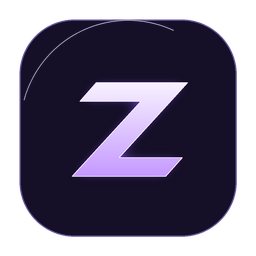
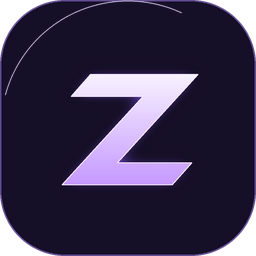
Brand as Zephyr and repair Fabric and account workflows

diff --git a/src/main.tsx b/src/main.tsx
@@ -4,7 +4,7 @@ import { createRoot } from 'react-dom/client';
 import type { Preset } from './profiles';
 const Resources = lazy(() => import('./resources').then(module => ({ default: module.Resources })));
 const Profiles = lazy(() => import('./profiles').then(module => ({ default: module.Profiles })));
-type Page = 'home' | 'instances' | 'performance' | 'mods';
+type Page = 'home' | 'instances' | 'performance' | 'mods' | 'account';
 const navigation = [
   ['home', '首页', 'M3 10l9-7 9 7v10H4V10m5 10v-7h6v7'],
   ['instances', '实例', 'M12 3l9 5v8l-9 5-9-5V8l9-5zm-9 5l9 5 9-5m-9 5v8'],
@@ -12,11 +12,13 @@ const navigation = [
   ['mods', '模组', 'M5 4h14v16H5zM8 8h8M8 12h8m-8 4h4'],
 ] as const;
 import './style.css';
+import { readableError } from './errors';
 
 type Loader = 'vanilla' | 'fabric';
 type Resource = { id: string; title: string; description: string };
 type InstallFile = { title: string; version: string };
 type Instance = { loader?: Loader; id: string; name: string; version: string; installed: boolean };
+type Player = { name: string; skin?: string; offline: boolean };
 type Version = { id: string; type: string };
 type Progress = { completed: number; total: number; bytesPerSecond: number };
 declare global {
@@ -36,7 +38,9 @@ declare global {
       previewMod(id: string, project: string): Promise<{ token: string; files: InstallFile[] }>;
       installMod(id: string, token: string): Promise<InstallFile[]>;
       install(id: string): Promise<Instance[]>;
-      signIn(): Promise<{ name: string; skin?: string }>;
+      accountSettings(): Promise<{ clientId: string; offlineAvailable: boolean }>;
+      signIn(clientId: string): Promise<Player & { offlineAvailable: boolean }>;
+      signInOffline(): Promise<Player>;
       signOut(): Promise<void>;
       play(id: string): Promise<void>;
       onGameExit(callback: (code: number | null) => void): () => void;
@@ -57,24 +61,27 @@ function App() {
   const [loader, setLoader] = useState<Loader>('vanilla');
   const [version, setVersion] = useState('');
   const [allVersions, setAllVersions] = useState(false);
+  const [loadingVersions, setLoadingVersions] = useState(false);
+  const [clientId, setClientId] = useState('');
+  const [offlineAvailable, setOfflineAvailable] = useState(false);
   const [busy, setBusy] = useState('');
   const [error, setError] = useState('');
-  const [player, setPlayer] = useState<{ name: string; skin?: string }>();
+  const [player, setPlayer] = useState<Player>();
   const [playing, setPlaying] = useState(false);
   const [progress, setProgress] = useState<Progress>();
   const current = instances.find(instance => instance.id === selected) ?? instances[0];
 
   async function loadVersions() {
-    setBusy('正在读取官方版本目录');
+    setLoadingVersions(true);
     setError('');
     try {
       const entries = await window.launcher.versions();
       setVersions(entries);
       setVersion(entries.find(entry => entry.type === 'release')?.id ?? '');
     } catch (error) {
-      setError(String(error));
+      setError(readableError(error));
     } finally {
-      setBusy('');
+      setLoadingVersions(false);
     }
   }
 
@@ -84,8 +91,12 @@ function App() {
   }, [theme]);
 
   useEffect(() => {
+    window.launcher.accountSettings().then(settings => {
+      setClientId(settings.clientId);
+      setOfflineAvailable(settings.offlineAvailable);
+    }).catch(error => setError(readableError(error)));
     window.launcher.system().then(setHardware).catch(() => {});
-    window.launcher.list().then(setInstances).catch(error => setError(String(error)));
+    window.launcher.list().then(setInstances).catch(error => setError(readableError(error)));
     void loadVersions();
     const stopProgress = window.launcher.onProgress(setProgress);
     const stopExit = window.launcher.onGameExit(code => {
@@ -106,7 +117,7 @@ function App() {
       setName('');
       setPage('home');
     } catch (error) {
-      setError(String(error));
+      setError(readableError(error));
     } finally {
       setBusy('');
     }
@@ -120,24 +131,31 @@ function App() {
     try {
       setInstances(await window.launcher.install(current.id));
     } catch (error) {
-      setError(String(error));
+      setError(readableError(error));
     } finally {
       setBusy('');
     }
   }
 
-  async function changeAccount() {
-    setBusy(player ? '正在退出登录' : '请在系统浏览器中完成 Microsoft 登录');
+  async function changeAccount(mode: 'online' | 'offline' | 'forget') {
+    setBusy(mode === 'online' ? '请在系统浏览器中完成 Microsoft 登录' : '正在切换账号');
     setError('');
     try {
-      if (player) {
+      if (mode === 'forget') {
         await window.launcher.signOut();
         setPlayer(undefined);
+        setOfflineAvailable(false);
+      } else if (mode === 'offline') {
+        setPlayer(await window.launcher.signInOffline());
+        setPage('home');
       } else {
-        setPlayer(await window.launcher.signIn());
+        const account = await window.launcher.signIn(clientId.trim());
+        setPlayer(account);
+        setOfflineAvailable(account.offlineAvailable);
+        setPage('home');
       }
     } catch (error) {
-      setError(String(error));
+      setError(readableError(error));
     } finally {
       setBusy('');
     }
@@ -152,7 +170,7 @@ function App() {
       await window.launcher.play(current.id);
     } catch (error) {
       setPlaying(false);
-      setError(String(error));
+      setError(readableError(error));
     } finally {
       setBusy('');
     }
@@ -163,7 +181,7 @@ function App() {
   const transfer = resourceBusy || busy === '正在安装游戏文件';
   return <div className="layout" data-reduced={hardware?.reducedEffects ?? false}>
     <aside>
-      <header><img src="./launcher-mark.png" alt="" /><strong>Java Edition<br /><small>启动器</small></strong></header>
+      <header><img src="./launcher-mark.png" alt="" /><strong>Zephyr<br /><small>Minecraft 启动器</small></strong></header>
       <nav aria-label="主导航">{navigation.map(([value, label, path]) =>
         <button type="button" key={value} aria-current={page === value ? 'page' : undefined}
           onClick={() => { setProgress(undefined); setPage(value); }} disabled={resourceBusy}>
@@ -181,15 +199,15 @@ function App() {
         <label className="theme">主题<select value={theme} onChange={event => setTheme(event.target.value)}>
           <option value="system">跟随系统</option><option value="light">浅色</option><option value="dark">深色</option>
         </select></label>
-        {player && <span className="player">{player.skin && <span className="avatar"><img src={player.skin} alt="" /></span>}{player.name}</span>}
-        <button type="button" disabled={locked} onClick={changeAccount}>
-          {player ? '退出账号' : 'Microsoft 登录'}
+        {player && <span className="player">{player.skin && <span className="avatar"><img src={player.skin} alt="" /></span>}{player.name}{player.offline && <small>离线</small>}</span>}
+        <button type="button" disabled={locked} onClick={() => setPage('account')}>
+          {player ? '账号设置' : '登录'}
         </button>
       </div>
       <div key={page} className="page">
       {page === 'home' && <section className="hero">
         <img className="hero-mark" src="./launcher-mark.png" alt="" />
-        <p className="eyebrow">JAVA EDITION</p>
+        <p className="eyebrow">MINECRAFT JAVA EDITION</p>
         <h1>{current?.name ?? '游戏实例'}</h1>
         <p>{current ? `${current.version} · ${current.installed ? '游戏文件已下载' : '待安装'}` :
           '从 Mojang 官方版本目录创建一个独立游戏实例。'}</p>
@@ -200,6 +218,20 @@ function App() {
         </button>}
         {!current && <button className="primary" onClick={() => setPage('instances')}>创建游戏实例</button>}
         {hardware && <p className="memory">推荐 JVM 内存 · {hardware.memory} GB</p>}
+      </section>}
+      {page === 'account' && <section className="panel">
+        <h2>账号</h2>
+        <p>第一次使用请通过 Microsoft 登录，完成 Minecraft Java 版所有权验证。之后可以用同一账号离线玩本地存档。</p>
+        <form className="sign-in-form" onSubmit={event => { event.preventDefault(); void changeAccount('online'); }}>
+          <label>Microsoft 应用程序客户端 ID<input value={clientId} required maxLength={36}
+            onChange={event => setClientId(event.target.value)} placeholder="应用程序（客户端）ID" /></label>
+          <button className="primary" disabled={locked || !clientId.trim()}>Microsoft 登录</button>
+        </form>
+        <div className="quick-actions">
+          {offlineAvailable && <button disabled={locked} onClick={() => void changeAccount('offline')}>离线登录</button>}
+          {(player || offlineAvailable) && <button disabled={locked} onClick={() => void changeAccount('forget')}>退出并清除本机账号</button>}
+        </div>
+        {!offlineAvailable && <p>在系统钥匙串可用时，成功登录后会启用离线模式。</p>}
       </section>}
       {page === 'instances' && <section className="panel">
         <h2>创建实例</h2>
@@ -222,7 +254,8 @@ function App() {
           }} />显示快照与历史版本</label>
           <button type="submit" disabled={!versions.length || !!busy || !name.trim()}>创建实例</button>
         </form>
-        {!versions.length && !busy && <button type="button" onClick={loadVersions}>重新读取官方目录</button>}
+        {loadingVersions && <p role="status">正在读取官方版本目录…</p>}
+        {!versions.length && !busy && !loadingVersions && <button type="button" onClick={loadVersions}>重新读取官方目录</button>}
       </section>}
       <Suspense fallback={<p role="status">正在加载页面…</p>}>
         {page === 'performance' && (supported ?

diff --git a/src/style.css b/src/style.css
@@ -102,3 +102,18 @@ progress { width: 100%; accent-color: var(--accent); }
   .layout { grid-template-columns: 152px minmax(0, 1fr); }
   form, .preset-list { grid-template-columns: 1fr; }
 }
+/* Keep the app mark fully visible inside the hero at narrow window sizes. */
+.layout::before {
+  background: radial-gradient(ellipse at 84% 12%,
+    color-mix(in srgb, var(--accent) 17%, transparent), transparent 57%);
+}
+header img { width: 40px; height: 40px; flex: none; }
+header strong { font-size: 17px; }
+header small { display: inline-block; margin-top: 4px; font-size: 10px; }
+.hero-mark { width: clamp(125px, 25vw, 290px); right: clamp(12px, 4vw, 50px); top: 50%;
+  bottom: auto; opacity: .25; transform: translateY(-50%); }
+@media (max-width: 850px) {
+  .hero-mark { width: clamp(100px, 19vw, 150px); opacity: .15; }
+}
+.sign-in-form { grid-template-columns: minmax(180px, 340px) auto; justify-content: start; }
+@media (max-width: 800px) { .sign-in-form { grid-template-columns: 1fr; } }

diff --git a/src/profiles.tsx b/src/profiles.tsx
@@ -1,3 +1,4 @@
+import { readableError } from './errors';
 import { useEffect, useState } from 'react';
 
 export const modes = {
@@ -22,7 +23,7 @@ export function Profiles({ id, disabled, notify }: { id: string; disabled: boole
   useEffect(() => {
     let active = true;
     window.launcher.profile(id).then(value => { if (active) setCurrent(value); },
-      reason => { if (active) setError(String(reason)); });
+      reason => { if (active) setError(readableError(reason)); });
     return () => { active = false; };
   }, [id]);
   async function perform(action: () => Promise<void>, message: string) {
@@ -32,7 +33,7 @@ export function Profiles({ id, disabled, notify }: { id: string; disabled: boole
     setSaved('');
     setStatus(message);
     try { await action(); }
-    catch (error) { setError(String(error)); }
+    catch (error) { setError(readableError(error)); }
     finally { setWorking(false); setStatus(''); notify(false); }
   }
   return <section className="panel">

diff --git a/src/resources.tsx b/src/resources.tsx
@@ -1,3 +1,4 @@
+import { readableError } from './errors';
 import { useState } from 'react';
 import type { FormEvent } from 'react';
 
@@ -20,7 +21,7 @@ export function Resources({ instance, disabled, notify }: { instance: string; di
     try {
       await action();
     } catch (error) {
-      setError(String(error));
+      setError(readableError(error));
     } finally {
       setWorking(false);
       notify(false);

diff --git a/index.html b/index.html
@@ -4,7 +4,7 @@
   <meta charset="UTF-8" />
   <meta name="viewport" content="width=device-width, initial-scale=1" />
   <meta http-equiv="Content-Security-Policy" content="default-src 'self'; img-src 'self' https://textures.minecraft.net; object-src 'none'; base-uri 'none'" />
-  <title>Minecraft 启动器</title>
+  <title>Zephyr</title>
 </head>
 <body>
   <div id="root"></div>

diff --git a/src/errors.ts b/src/errors.ts
@@ -1,0 +1,6 @@
+export function readableError(error: unknown) {
+  const message = error instanceof Error ? error.message : String(error);
+  return message.replace(/^Error:\s*/, '')
+    .replace(/^Error invoking remote method '[^']+':\s*/, '')
+    .replace(/^Error:\s*/, '');
+}

diff --git a/README.md b/README.md
@@ -1,4 +1,4 @@
-# Java Edition Launcher
+# Zephyr
 
 Minecraft Java 版桌面启动器的开发版源码。现有功能包括独立实例、Mojang 版本目录、游戏文件下载与校验、Microsoft 浏览器登录、正版所有权校验和现代原版的 Java 进程启动。当前处于开发阶段，真实账号到游戏内的完整流程尚未验收。
 
@@ -60,3 +60,9 @@ npm start
 - 下载支持校验缓存和基于 Range 的恢复。服务器不支持 Range 时重新下载该文件。进度显示为已处理的文件数和任务平均吞吐。
 - 新版发布由版本标签触发，目标为 macOS ARM64 DMG、Windows x64 EXE 和 Linux x64 AppImage。macOS 预览包使用临时签名。Developer ID 签名和 Apple 公证需要发布账号及对应凭据。
 - 模组兼容性依据 Modrinth 的版本、加载器与声明的依赖和冲突。未测游戏实机帧率；第三方光影和手动安装的模组需在实际游戏中验证。
+
+## Zephyr 0.2.3 账号与 Fabric
+
+Zephyr 使用原有的实例数据目录。登录页面支持配置个人注册并获 Minecraft Services 授权的 Microsoft 客户端 ID。在线会话快过期时重新验证。完成正版验证后，系统加密存储可用的设备会缓存经验证的身份和刷新凭据。离线模式只读取本机已验证的身份，使用无效的在线访问令牌启动本地游戏。退出并清除账号会移除缓存。客户端 ID 是公开应用标识，请勿输入客户端密钥或账号密码。
+
+Fabric 增加了对带构建后缀的 Maven 版本号和分类 JAR 的支持，并保留下载域名与 SHA-1 检查。
